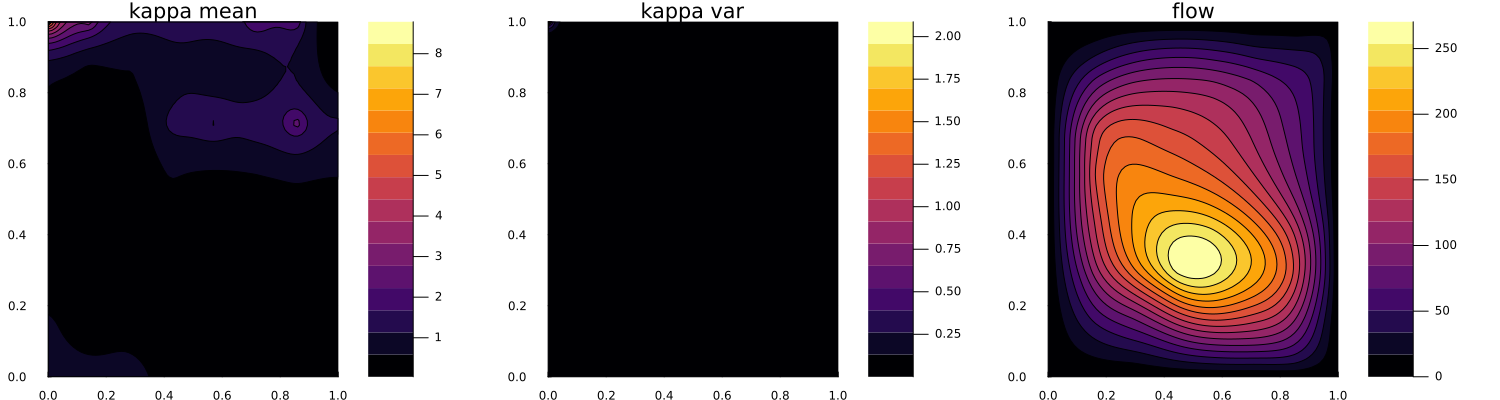
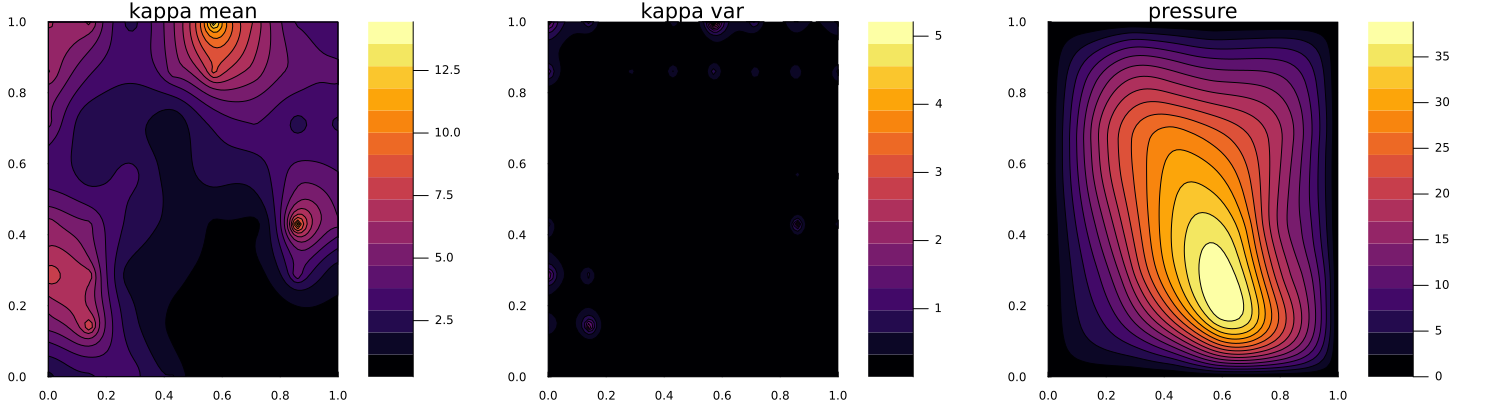
docs update

diff --git a/docs/src/examples/darcy.md b/docs/src/examples/darcy.md
@@ -2,7 +2,7 @@
 
 In this example, we illustrate a simple function learning problem. We are presented with an unknown field that is discretized with a finite-dimensional approximation (e.g. spatial discretization). When learning this field, if one represents each pointwise value at a gridpoint as a parameter, increasing the spatial resolution leads to increasingly high dimensional learning problems, thus giving poor computational scaling and increasingly ill-posed inverse problems from fixed data. If instead, we treat the approximation as a discretized function living in a function space, then one can learn coefficients of a basis of this function space. Since it is commonly the case that functions have relatively low effective dimension in this space, the dependence on the spatial discretization only arises in discretization error, which vanishes as resolution is increased.
 
-We will solve for an unknown permeability field ``\kappa`` governing the velocity of a [Darcy flow](https://en.wikipedia.org/wiki/Darcy%27s_law) on a square 2D domain. To learn about the permeability we shall take few pointwise measurements of the solved velocity field within the domain. The forward solver is a simple finite difference scheme taken and modified from code [here](https://github.com/Zhengyu-Huang/InverseProblems.jl/blob/master/Fluid/Darcy-2D.jl).
+We will solve for an unknown permeability field ``\kappa`` governing the pressure field of a [Darcy flow](https://en.wikipedia.org/wiki/Darcy%27s_law) on a square 2D domain. To learn about the permeability we shall take few pointwise measurements of the solved pressure field within the domain. The forward solver is a simple finite difference scheme taken and modified from code [here](https://github.com/Zhengyu-Huang/InverseProblems.jl/blob/master/Fluid/Darcy-2D.jl).
 
 ## Walkthrough of the code
 
@@ -79,7 +79,7 @@ u_true = -1.5 * ones(dofs,1) # the truth parameter
 κ_true = reshape(κ_true, N, N)
 ```
 
-We generate the data sample for the truth in a perfect model setting by evaluating the the model here, and observing the flow velocity at a few subsampled points in each dimension (here `obs_ΔN`, samples every 10 points in each dimension, leading to a ``7 \times 7`` observation grid), and we assume 5% additive observational noise on the measurements.
+We generate the data sample for the truth in a perfect model setting by evaluating the the model here, and observing the pressure field at a few subsampled points in each dimension (here `obs_ΔN`, samples every 10 points in each dimension, leading to a ``7 \times 7`` observation grid), and we assume 5% additive observational noise on the measurements.
 
 ```julia
 obs_ΔN = 10 
@@ -123,15 +123,15 @@ end
 
 ## Inversion results
 
-We plot first the prior ensemble mean and pointwise variance of the permeability field, and also the velocity field solved with the ensemble mean. 
+We plot first the prior ensemble mean and pointwise variance of the permeability field, and also the pressure field solved with the ensemble mean. 
 
 ![Darcy prior](../assets/darcy_prior.png)
 
-Now we plot the final ensemble mean and pointwise variance of the permeability field, and also the velocity field solved with the ensemble mean.
+Now we plot the final ensemble mean and pointwise variance of the permeability field, and also the pressure field solved with the ensemble mean.
 
 ![Darcy final](../assets/darcy_final.png)
 
-We can compare this with the true permeability and velocity field:
+We can compare this with the true permeability and pressure field:
 
 ![Darcy truth](../assets/darcy_true.png)
 
